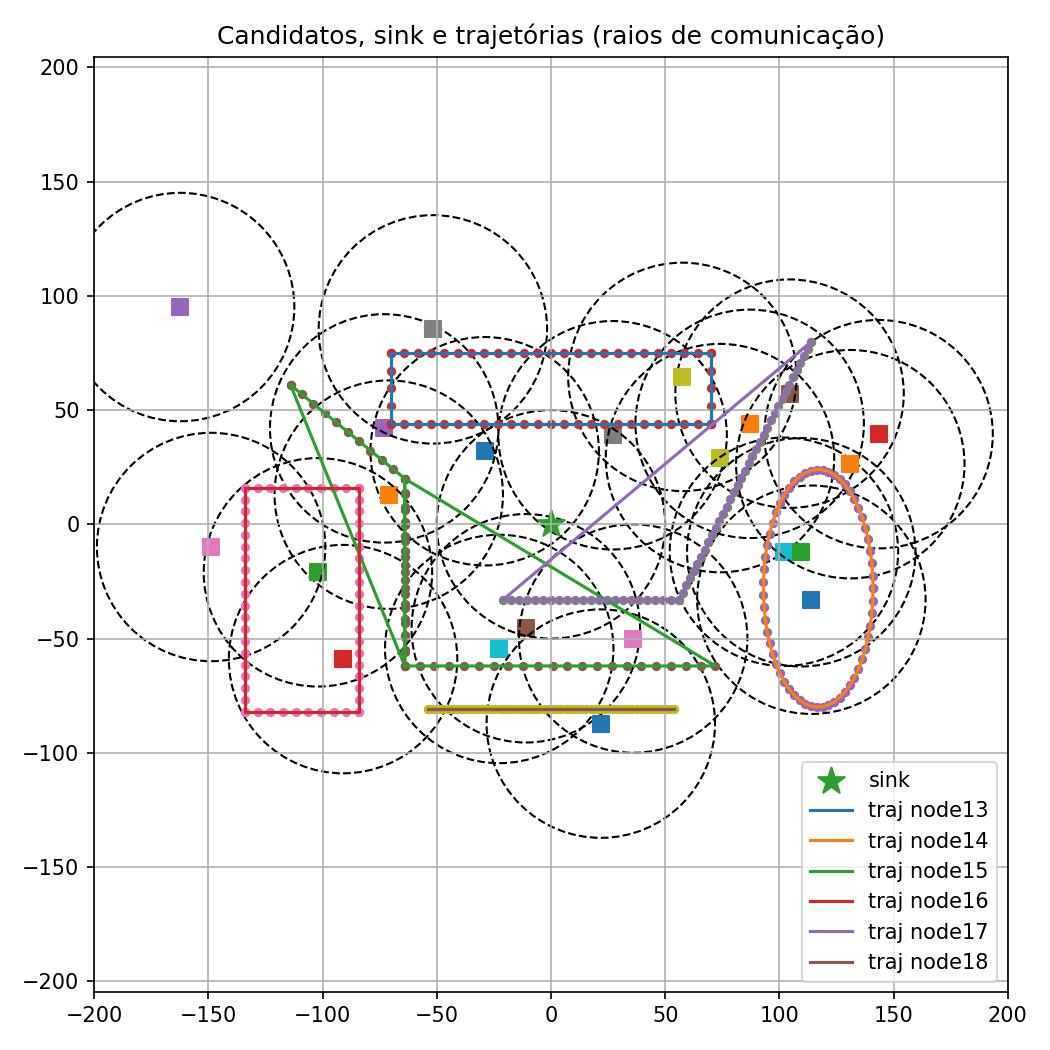
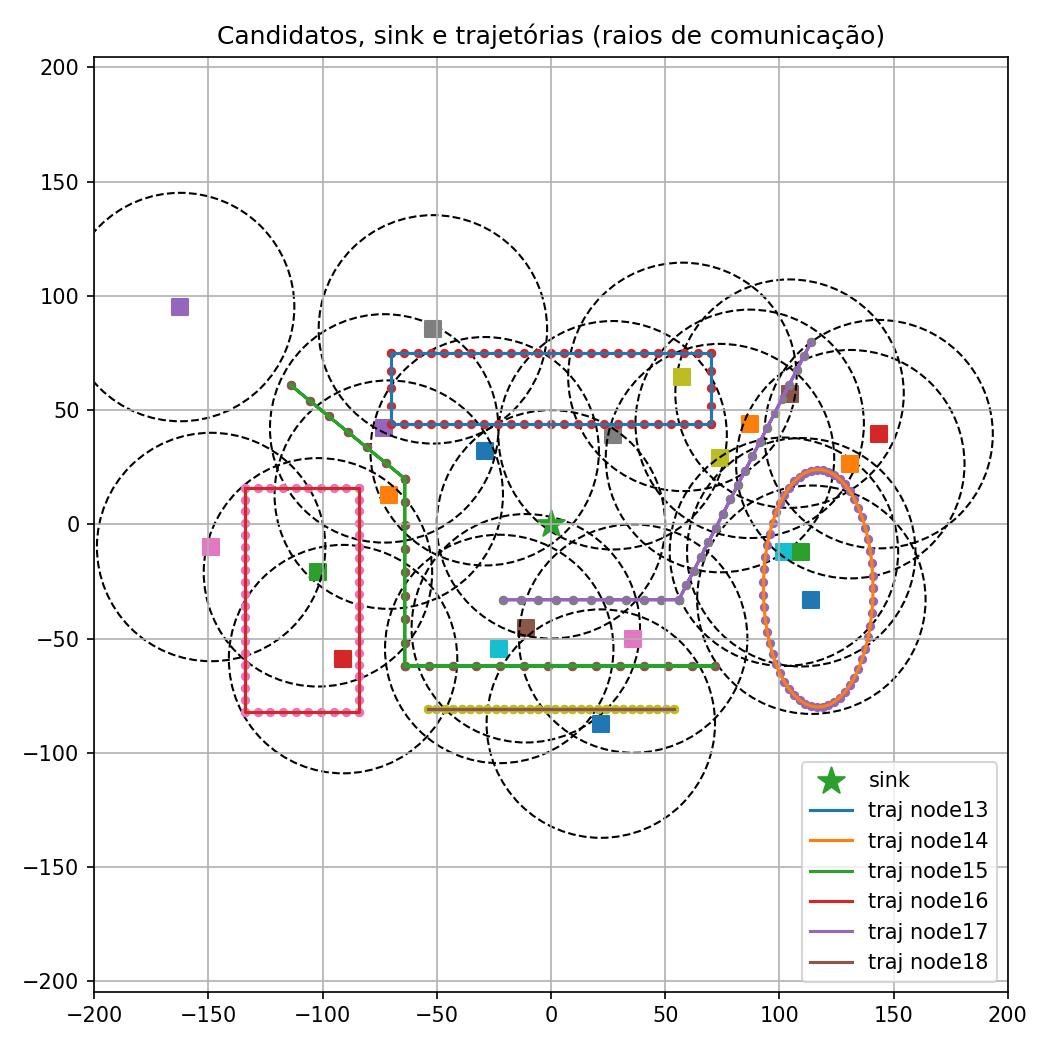
rev: review pictures plots

diff --git a/wsn-basic/utils/plot_utils.py b/wsn-basic/utils/plot_utils.py
@@ -2,6 +2,39 @@ import numpy as np
 import matplotlib.pyplot as plt
 from matplotlib.patches import Circle
 
+# ======================
+# Helper: trajetórias com quebras
+# ======================
+
+def _traj_with_breaks(r_mobile, name, T, close=False, jump_factor=5.0):
+    """
+    Gera uma trajetória shape (N,2) com linhas 'quebradas' (NaNs) em saltos grandes.
+    - close=False por padrão: não faz o wrap (evita risco entre último e primeiro).
+    - jump_factor controla a sensibilidade: quebra quando passo > jump_factor * mediana.
+    """
+    pts = np.array([r_mobile(name, t) for t in range(1, T + 1)], dtype=float)
+
+    # Opcionalmente fechar (em geral, NÃO faça para caminhos abertos)
+    if close:
+        pts = np.vstack([pts, pts[0]])
+
+    # Distâncias entre pontos consecutivos
+    if len(pts) >= 2:
+        diffs = np.diff(pts, axis=0)
+        dists = np.linalg.norm(diffs, axis=1)
+        med = np.median(dists) if np.any(dists > 0) else 0.0
+        # limiar robusto: maior entre 1e-9 e mediana*jump_factor
+        thr = max(1e-9, med * jump_factor)
+
+        # Monta com NaNs onde houver salto
+        rows = [pts[0]]
+        for k in range(1, len(pts)):
+            if dists[k - 1] > thr:
+                rows.append([np.nan, np.nan])  # quebra a linha aqui
+            rows.append(pts[k])
+        pts = np.array(rows, dtype=float)
+    return pts
+
 # ================
 # FIGURAS
 # ================
@@ -20,9 +53,9 @@ def plot_candidates_and_paths(F, q_fixed, q_sink, R_comm, mob_names, r_mobile, T
     ax.scatter([q_sink[0]], [q_sink[1]], marker='*', s=180, label="sink")
     ax.add_patch(Circle((q_sink[0], q_sink[1]), R_comm, fill=False, linewidth=1, ls='--'))
 
-    # trajetórias
+    # trajetórias (NÃO fecha; quebra saltos com NaN)
     for name in mob_names:
-        traj = np.array([r_mobile(name, t) for t in range(1, T + 1)] + [r_mobile(name, 1)])
+        traj = _traj_with_breaks(r_mobile, name, T, close=False, jump_factor=5.0)
         ax.plot(traj[:, 0], traj[:, 1], linestyle='-', label=f"traj {name}")
         ax.scatter(traj[:, 0], traj[:, 1], marker='o', s=12)
 
@@ -37,8 +70,8 @@ def plot_candidates_and_paths(F, q_fixed, q_sink, R_comm, mob_names, r_mobile, T
     plt.savefig(out_path, dpi=150)
     plt.close()
 
-def plot_solution(F, installed, q_fixed, q_sink, R_comm, mob_names, r_mobile, T,
-                  E_t, x_val, pos_node, t_plot, region, out_path="./pic2.png"):
+def plot_solution(F, installed, q_fixed, q_sink, R_comm, 
+                  mob_names, T, r_mobile, region, out_path="./pic2.png"):
     plt.figure(figsize=(10, 10))
     ax = plt.gca()
 
@@ -57,21 +90,13 @@ def plot_solution(F, installed, q_fixed, q_sink, R_comm, mob_names, r_mobile, T,
     ax.scatter([q_sink[0]], [q_sink[1]], marker='*', s=180, label="sink")
     ax.add_patch(Circle((q_sink[0], q_sink[1]), R_comm, fill=False, linewidth=1, ls='--'))
 
-    # trajetórias
+    # trajetórias (contexto): não fechar, com quebras
     for name in mob_names:
-        traj = np.array([r_mobile(name, t) for t in range(1, T + 1)] + [r_mobile(name, 1)])
+        traj = _traj_with_breaks(r_mobile, name, T, close=False, jump_factor=5.0)
         ax.plot(traj[:, 0], traj[:, 1], linestyle='-', alpha=0.6)
         ax.scatter(traj[:, 0], traj[:, 1], marker='o', s=10, alpha=0.6)
 
-    # fluxos ativos no snapshot
-    flows_t = {(i, j): x_val[(i, j, t_plot)] for (i, j) in E_t[t_plot] if x_val[(i, j, t_plot)] > 1e-6}
-    for (i, j), val in flows_t.items():
-        pi, pj = pos_node(i, t_plot), pos_node(j, t_plot)
-        ax.plot([pi[0], pj[0]], [pi[1], pj[1]], linewidth=2)
-        cx, cy = (pi[0] + pj[0]) / 2, (pi[1] + pj[1]) / 2
-        ax.text(cx, cy, f"{val:.2f}", fontsize=8)
-
-    ax.set_title(f"Solução: instalados e fluxos em t={t_plot} (com raios)")
+    ax.set_title(f"Solução (raios de comunicação instalados)")
     ax.axis('equal')
     ax.grid(True)
     ax.legend(loc="upper left", bbox_to_anchor=(1.02, 1), borderaxespad=0.0)

diff --git a/wsn-basic/model1.py b/wsn-basic/model1.py
@@ -252,8 +252,7 @@ t_plot = max(1, min(3, T))
 
 plot_solution(
     F=F, installed=installed, q_fixed=q_fixed, q_sink=q_sink, R_comm=R_comm,
-    mob_names=mob_names, r_mobile=r_mobile, T=T,
-    E_t=E_t, x_val=x_val, pos_node=pos_node, t_plot=t_plot,
+    mob_names=mob_names, T=T, r_mobile=r_mobile, 
     region=region, out_path="./pic2.png"
 )
 
